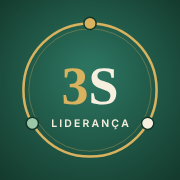
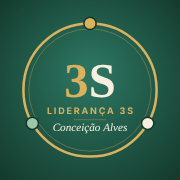
Logótipo: Liderança 3S · Conceição Alves
Claude-Session: https://claude.ai/code/session_019CNx53kTqB9cqJeSzSNycM

Changed region(s): [[0.25, 0.3333, 0.7222, 0.75], [0.6667, 0.5833, 0.75, 0.6389]]

diff --git a/index.html b/index.html
@@ -1858,7 +1858,7 @@ const MENU_GRUPOS = [
 let currentScreen = "dashboard";
 
 function entrarNaTelaInicial(){
-  try{ if(currentUser && currentUser.name) aplicarIconePessoal(currentUser.role === 'demo' ? 'Liderança' : currentUser.name); }catch(e){}
+  try{ if(currentUser && currentUser.name) aplicarIconePessoal(currentUser.role === 'demo' ? '' : currentUser.name); }catch(e){}
   if(currentUser && currentUser.role === 'colaborador'){
     selectMenu('minha-area', 'A Minha Área');
   } else {
@@ -11387,19 +11387,21 @@ function desenharLogo3S(cv, nome, maskable){
   // três pilares: Saber, Sentir, Ser
   [['#D9B25F', -90], ['#F6EFE0', 30], ['#9CC8A8', 150]].forEach(([cor, a]) => { const r = a * Math.PI / 180; g.fillStyle = cor; g.beginPath(); g.arc(c + R * Math.cos(r), c + R * Math.sin(r), S * 0.034, 0, Math.PI * 2); g.fill(); g.lineWidth = S * 0.008; g.strokeStyle = '#123629'; g.stroke(); });
   // monograma 3S
-  g.textAlign = 'center'; g.textBaseline = 'alphabetic';
-  g.font = `700 ${S * 0.30}px Georgia, 'Times New Roman', serif`;
-  const w3 = g.measureText('3').width, wS = g.measureText('S').width, x0 = c - (w3 + wS) / 2, yb = c + S * 0.08;
-  g.fillStyle = '#D9B25F'; g.textAlign = 'left'; g.fillText('3', x0, yb);
+  g.textAlign = 'left'; g.textBaseline = 'alphabetic';
+  g.font = `700 ${S * 0.27}px Georgia, 'Times New Roman', serif`;
+  const w3 = g.measureText('3').width, wS = g.measureText('S').width, x0 = c - (w3 + wS) / 2, yb = c + S * 0.04;
+  g.fillStyle = '#D9B25F'; g.fillText('3', x0, yb);
   g.fillStyle = '#F6EFE0'; g.fillText('S', x0 + w3, yb);
-  // nome por baixo
-  const t = String(nome || 'LIDERANÇA').toUpperCase();
-  let fs = S * 0.058; g.font = `600 ${fs}px system-ui, -apple-system, 'Segoe UI', Roboto, Arial, sans-serif`;
-  const esp = t.length > 9 ? S * 0.004 : S * 0.012;
-  const larg = () => [...t].reduce((a, ch) => a + g.measureText(ch).width + esp, -esp);
-  while(larg() > R * 1.45 && fs > S * 0.03){ fs -= S * 0.002; g.font = `600 ${fs}px system-ui, -apple-system, 'Segoe UI', Roboto, Arial, sans-serif`; }
-  let x = c - larg() / 2; g.fillStyle = '#F6EFE0';
-  [...t].forEach(ch => { g.fillText(ch, x, c + S * 0.205); x += g.measureText(ch).width + esp; });
+  // "LIDERANÇA 3S" espaçado
+  const esp = S * 0.010; g.font = `700 ${S * 0.05}px system-ui, -apple-system, 'Segoe UI', Roboto, Arial, sans-serif`;
+  const t1 = 'LIDERANÇA 3S'; const l1 = [...t1].reduce((a, ch) => a + g.measureText(ch).width + esp, -esp);
+  let x = c - l1 / 2; g.fillStyle = '#D9B25F'; [...t1].forEach(ch => { g.fillText(ch, x, c + S * 0.135); x += g.measureText(ch).width + esp; });
+  // linha fina e nome (assinatura)
+  g.strokeStyle = 'rgba(217,178,95,.6)'; g.lineWidth = S * 0.003; g.beginPath(); g.moveTo(c - S * 0.09, c + S * 0.165); g.lineTo(c + S * 0.09, c + S * 0.165); g.stroke();
+  const t2 = String(nome || 'Conceição Alves');
+  let fs = S * 0.062; g.font = `italic 400 ${fs}px Georgia, 'Times New Roman', serif`;
+  while(g.measureText(t2).width > R * 1.5 && fs > S * 0.035){ fs -= S * 0.002; g.font = `italic 400 ${fs}px Georgia, 'Times New Roman', serif`; }
+  g.textAlign = 'center'; g.fillStyle = '#F6EFE0'; g.fillText(t2, c, c + S * 0.225);
   g.restore();
   return cv;
 }
@@ -11408,13 +11410,13 @@ function logo3SDataURL(nome, tam, maskable){ const cv = document.createElement('
 function aplicarIconePessoal(nomeCompleto){
   try{
     const ps = String(nomeCompleto || '').trim().split(/\s+/); const primeiro = (/^(maria|ana|jos[eé]|jo[aã]o)$/i.test(ps[0] || '') && ps[1] && !/^(de|da|do|dos|das)$/i.test(ps[1])) ? ps[1] : (ps[0] || '');
-    const nome = primeiro ? primeiro : 'Liderança';
+    const ultimo = ps.length > 1 ? ps[ps.length - 1] : ''; const nome = primeiro ? (primeiro + (ultimo && ultimo !== primeiro ? ' ' + ultimo : '')) : 'Conceição Alves';
     const i512 = logo3SDataURL(nome, 512), i192 = logo3SDataURL(nome, 192), im = logo3SDataURL(nome, 512, true), i180 = logo3SDataURL(nome, 180);
     const set = (rel, href) => { let l = document.querySelector(`link[rel="${rel}"]`); if(!l){ l = document.createElement('link'); l.rel = rel; document.head.appendChild(l); } l.href = href; };
     set('icon', logo3SDataURL(nome, 64)); set('apple-touch-icon', i180);
-    let mt = document.querySelector('meta[name="apple-mobile-web-app-title"]'); if(!mt){ mt = document.createElement('meta'); mt.name = 'apple-mobile-web-app-title'; document.head.appendChild(mt); } mt.content = '3S ' + nome;
+    let mt = document.querySelector('meta[name="apple-mobile-web-app-title"]'); if(!mt){ mt = document.createElement('meta'); mt.name = 'apple-mobile-web-app-title'; document.head.appendChild(mt); } mt.content = 'Liderança 3S';
     const base = location.href.split('#')[0].split('?')[0].replace(/[^/]*$/, '');
-    const man = {name: 'Liderança 3S — ' + (primeiro || 'Gestor de Loja'), short_name: '3S ' + nome, start_url: base, scope: base, display: 'standalone', orientation: 'portrait', background_color: '#123629', theme_color: '#1C4B3E', lang: 'pt-PT',
+    const man = {name: 'Liderança 3S — ' + (primeiro || 'Gestor de Loja'), short_name: 'Liderança 3S', start_url: base, scope: base, display: 'standalone', orientation: 'portrait', background_color: '#123629', theme_color: '#1C4B3E', lang: 'pt-PT',
       icons: [{src: i192, sizes: '192x192', type: 'image/png', purpose: 'any'}, {src: i512, sizes: '512x512', type: 'image/png', purpose: 'any'}, {src: im, sizes: '512x512', type: 'image/png', purpose: 'maskable'}]};
     set('manifest', 'data:application/manifest+json;charset=utf-8,' + encodeURIComponent(JSON.stringify(man)));
   }catch(e){ console.warn('ícone pessoal', e); }
